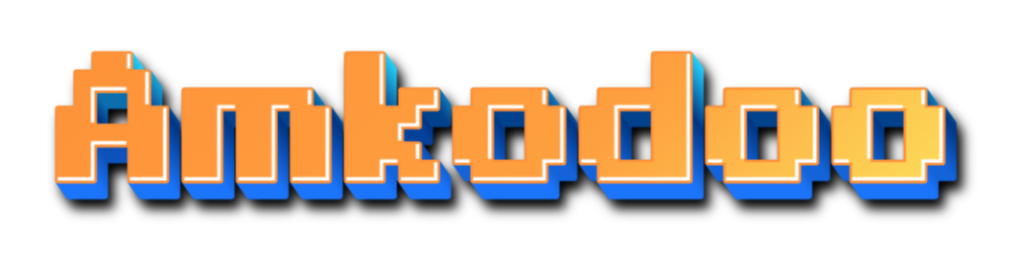
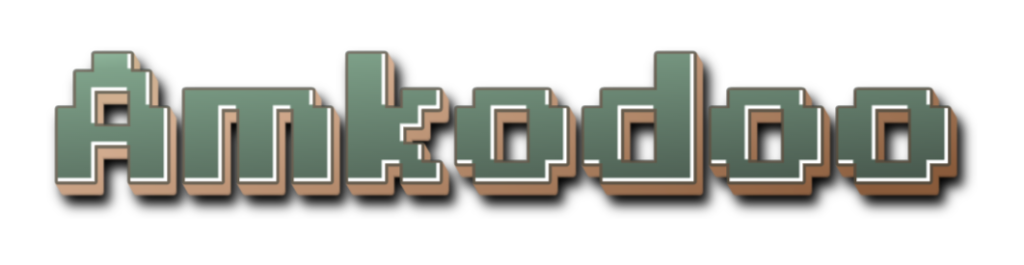
changed the visuals

diff --git a/README.md b/README.md
@@ -1,31 +1,31 @@
 <div align="center">
-  <img src="img/amkodoo.png" alt="Banner" width="100%">
+  <img src="img/amkodoo5.png" alt="Banner" width="100%">
 </div>
 
-## ⚡ A Few Quick **Facts**
+## ⚡ A Few Quick Facts
 
-<img height="200" src="img/berserk.gif" align="right">
+<img style="border-radius: 30px" height="200" src="img/guts.gif" align="right">
 
-- 🚀 Currently working as a Cloud & Data Engineer
-- 🔗 I love connecting IoT systems and solving interoperability challenges
-- 📊 Building small Streamlit apps for data visualization and analytics
-- 🐍 Exploring Python automation and algorithmic problem solving
-- 🛠 Into DIY electronics and small-scale robotics projects
-- 🎨 Enjoy designing & 3D printing parts that merge with electronics
-- 🌱 Learning frontend development to close the full-stack loop
-- 🧠 Passionate about self-education, open-source, and experimentation
-- 🎓 Hold a Bachelor’s degree in Mechatronics Engineering
+- ☁ Working as Cloud engineer
+- 🔗 Connecting IoT, edge, and cloud systems
+- 📊 Building Streamlit apps for data-projects
+- 🐍 Automating stuff with Python
+- 🛠 Into electronics, sensors, and small robotics
+- 🎨 3D printing and custom hardware design
+- 🌱 Learning modern frontend
+- 🧠 Always experimenting and learning by doing
+- 🎓 Bachelor of Engineering - Mechatronics
 
 ---
 
 ## 🖥 My Dev Setup
 
-<img src="https://img.shields.io/badge/Pop!_OS-32302f.svg?&style=round-square&logo=popos&logoColor=48B9C7"> <img src="https://img.shields.io/badge/macOS-32302f.svg?&style=round-square&logo=apple&logoColor=white"> <img src="https://img.shields.io/badge/VSCode-32302f.svg?&style=round-square&logo=visualstudiocode&logoColor=007ACC"> <img src="https://img.shields.io/badge/Terminal-32302f.svg?&style=round-square&logo=gnometerminal&logoColor=white"> <img src="https://img.shields.io/badge/Obsidian-32302f.svg?&style=round-square&logo=obsidian&logoColor=483699"> <img src="https://img.shields.io/badge/Spotify-32302f.svg?&style=round-square&logo=spotify&logoColor=1ED760">
+<img src="https://img.shields.io/badge/macOS-32302f.svg?&style=round-square&logo=apple&logoColor=white"> <img src="https://img.shields.io/badge/VSCode-32302f.svg?&style=round-square&logo=visualstudiocode&logoColor=007ACC"> <img src="https://img.shields.io/badge/Terminal-32302f.svg?&style=round-square&logo=gnometerminal&logoColor=white"> <img src="https://img.shields.io/badge/Obsidian-32302f.svg?&style=round-square&logo=obsidian&logoColor=483699"> <img src="https://img.shields.io/badge/Spotify-32302f.svg?&style=round-square&logo=spotify&logoColor=1ED760">
 
 ---
 
 ## ⚙ Tech & Tools I use
 
-[![My Skills](https://skillicons.dev/icons?i=python,git,docker,aws,terraform,kafka,typescript,react,angular,postgres,go,linux,bash,raspberrypi,arduino,vscode,&perline=17)](https://skillicons.dev)
+[![My Skills](https://skillicons.dev/icons?i=vscode,python,git,docker,typescript,react,aws,terraform,prometheus,grafana,go,linux,bash,raspberrypi,arduino,&perline=6)](https://skillicons.dev)
 
 ---
